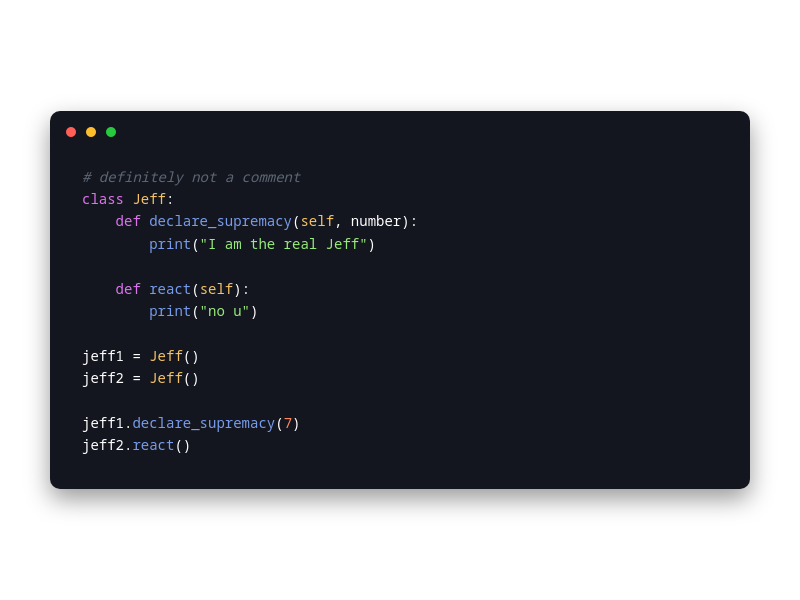
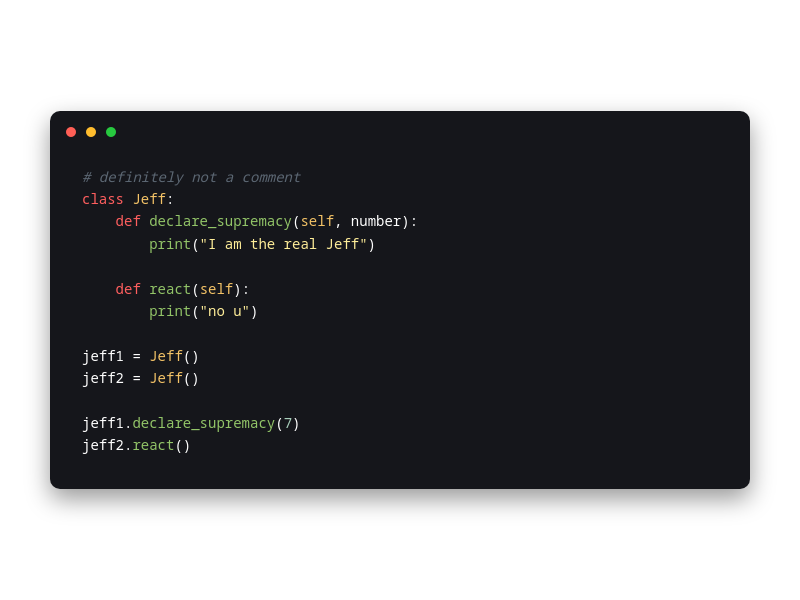
feat: changing the warrior theme

diff --git a/dogs/warrior/code_preview.html b/dogs/warrior/code_preview.html
@@ -5,15 +5,15 @@
   <title>Warrior Theme Preview</title>
   <style>
     :root {
-      --bg: #14161f;
+      --bg: #15161B;
       --surface: #08090D;
       --fg: #FFFFFF;
       --comment: #5C6773;
-      --keyword: #dc74ed;
-      --function: #789CEA;
-      --string: #98eb7a;
+      --keyword: #ff5f5f;
+      --function: #92c468;
+      --string: #FFEE99;
       --type: #F4C367;
-      --constant: #FF875F;
+      --constant: #a8ceba;
       --cursor: #ffdb29;
       --selection: #264F78;
     }

diff --git a/themes/warrior/vimium.css b/themes/warrior/vimium.css
@@ -1,12 +1,12 @@
 /* Makurai Warrior Theme */
 
 :root {
-  --vimium-orange: #dc74ed;
-  --vimium-yellow: #789CEA;
-  --vimium-green: #98eb7a;
+  --vimium-orange: #ff5f5f;
+  --vimium-yellow: #92c468;
+  --vimium-green: #FFEE99;
   --vimium-text: #FFFFFF;
-  --vimium-surface2: #20202b;
-  --vimium-background: #14161f;
+  --vimium-surface2: #1C1F2E;
+  --vimium-background: #15161B;
   --vimium-comment: ;
   --vimium-line: #25282E;
 }

diff --git a/themes/mage/vimium.css b/themes/mage/vimium.css
@@ -5,7 +5,7 @@
   --vimium-yellow: #FFEE99;
   --vimium-green: #95FB79;
   --vimium-text: #FFFFFF;
-  --vimium-surface2: #20202b;
+  --vimium-surface2: #1C1F2E;
   --vimium-background: #15161B;
   --vimium-comment: ;
   --vimium-line: #25282E;

diff --git a/themes/rogue/vimium.css b/themes/rogue/vimium.css
@@ -5,7 +5,7 @@
   --vimium-yellow: #94A3C5;
   --vimium-green: #92c468;
   --vimium-text: #e8e8ea;
-  --vimium-surface2: #20202b;
+  --vimium-surface2: #1C1F2E;
   --vimium-background: #15161B;
   --vimium-comment: ;
   --vimium-line: #25282E;

diff --git a/themes/warrior/README.md b/themes/warrior/README.md
@@ -8,11 +8,11 @@
 ## Syntax Colors
 | Name      | Color          | |
 |-----------|----------------|-|
-| Keyword   | `#dc74ed` | ![keyword](../../dogs/warrior/keyword.png) |
-| Function  | `#789CEA` | ![function](../../dogs/warrior/function.png) |
-| String    | `#98eb7a` | ![string](../../dogs/warrior/string.png) |
+| Keyword   | `#ff5f5f` | ![keyword](../../dogs/warrior/keyword.png) |
+| Function  | `#92c468` | ![function](../../dogs/warrior/function.png) |
+| String    | `#FFEE99` | ![string](../../dogs/warrior/string.png) |
 | Type      | `#F4C367` | ![type](../../dogs/warrior/type.png) |
-| Constant  | `#FF875F` | ![constant](../../dogs/warrior/constant.png) |
+| Constant  | `#a8ceba` | ![constant](../../dogs/warrior/constant.png) |
 | Comment   | `#5C6773` | ![comment](../../dogs/warrior/comment.png) |
 | Foreground| `#FFFFFF` | ![foreground](../../dogs/warrior/foreground.png) |
 | Error     | `#FF5555` | ![error](../../dogs/warrior/error.png) |
@@ -32,10 +32,10 @@
 ## UI Colors
 | Name          | Color           | |
 |---------------|-----------------|-|
-| Background    | `#14161f` | ![bg](../../dogs/warrior/bg.png) |
+| Background    | `#15161B` | ![bg](../../dogs/warrior/bg.png) |
 | Surface       | `#08090D` | ![surface](../../dogs/warrior/surface.png) |
-| Background 2  | `#15161B` | ![bg_alt](../../dogs/warrior/bg_alt.png) |
-| Surface 2     | `#20202b` | ![surface_alt](../../dogs/warrior/surface_alt.png) |
+| Background 2  | `#14161f` | ![bg_alt](../../dogs/warrior/bg_alt.png) |
+| Surface 2     | `#1C1F2E` | ![surface_alt](../../dogs/warrior/surface_alt.png) |
 | Border        | `#A6ACCD` | ![border](../../dogs/warrior/border.png) |
 
 ## Other

diff --git a/themes/rogue/README.md b/themes/rogue/README.md
@@ -35,7 +35,7 @@
 | Background    | `#15161B` | ![bg](../../dogs/rogue/bg.png) |
 | Surface       | `#08090D` | ![surface](../../dogs/rogue/surface.png) |
 | Background 2  | `#14161f` | ![bg_alt](../../dogs/rogue/bg_alt.png) |
-| Surface 2     | `#20202b` | ![surface_alt](../../dogs/rogue/surface_alt.png) |
+| Surface 2     | `#1C1F2E` | ![surface_alt](../../dogs/rogue/surface_alt.png) |
 | Border        | `#A6ACCD` | ![border](../../dogs/rogue/border.png) |
 
 ## Other

diff --git a/themes/mage/README.md b/themes/mage/README.md
@@ -35,7 +35,7 @@
 | Background    | `#15161B` | ![bg](../../dogs/mage/bg.png) |
 | Surface       | `#08090D` | ![surface](../../dogs/mage/surface.png) |
 | Background 2  | `#14161f` | ![bg_alt](../../dogs/mage/bg_alt.png) |
-| Surface 2     | `#20202b` | ![surface_alt](../../dogs/mage/surface_alt.png) |
+| Surface 2     | `#1C1F2E` | ![surface_alt](../../dogs/mage/surface_alt.png) |
 | Border        | `#A6ACCD` | ![border](../../dogs/mage/border.png) |
 
 ## Other
